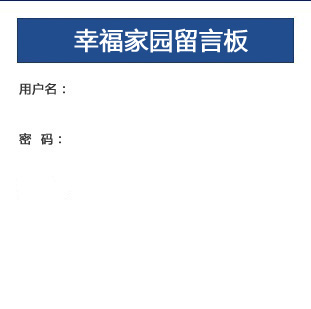
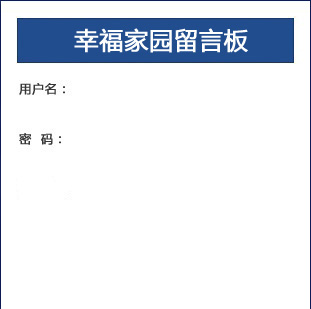
页面调整

Changed region(s): [[0.9839, 0.0, 1.0, 1.0], [0.0, 0.0291, 0.0289, 1.0]]

diff --git a/trunk/ my-project-messageboard/messageboard/02_Implementation/assemblage/src/main/webapp/css/top.css b/trunk/ my-project-messageboard/messageboard/02_Implementation/assemblage/src/main/webapp/css/top.css
@@ -31,7 +31,8 @@ body{
 	padding-bottom: 0px;
 	margin-left: 155px;
 	margin-top: 39px;
-	background-image: url('../image/main_05.gif');
+	/* background-image: url('../image/main_05.gif'); */
+	background-color: #196793;
 	width: 810px;
 	z-index: 1000;
 	position:absolute;
